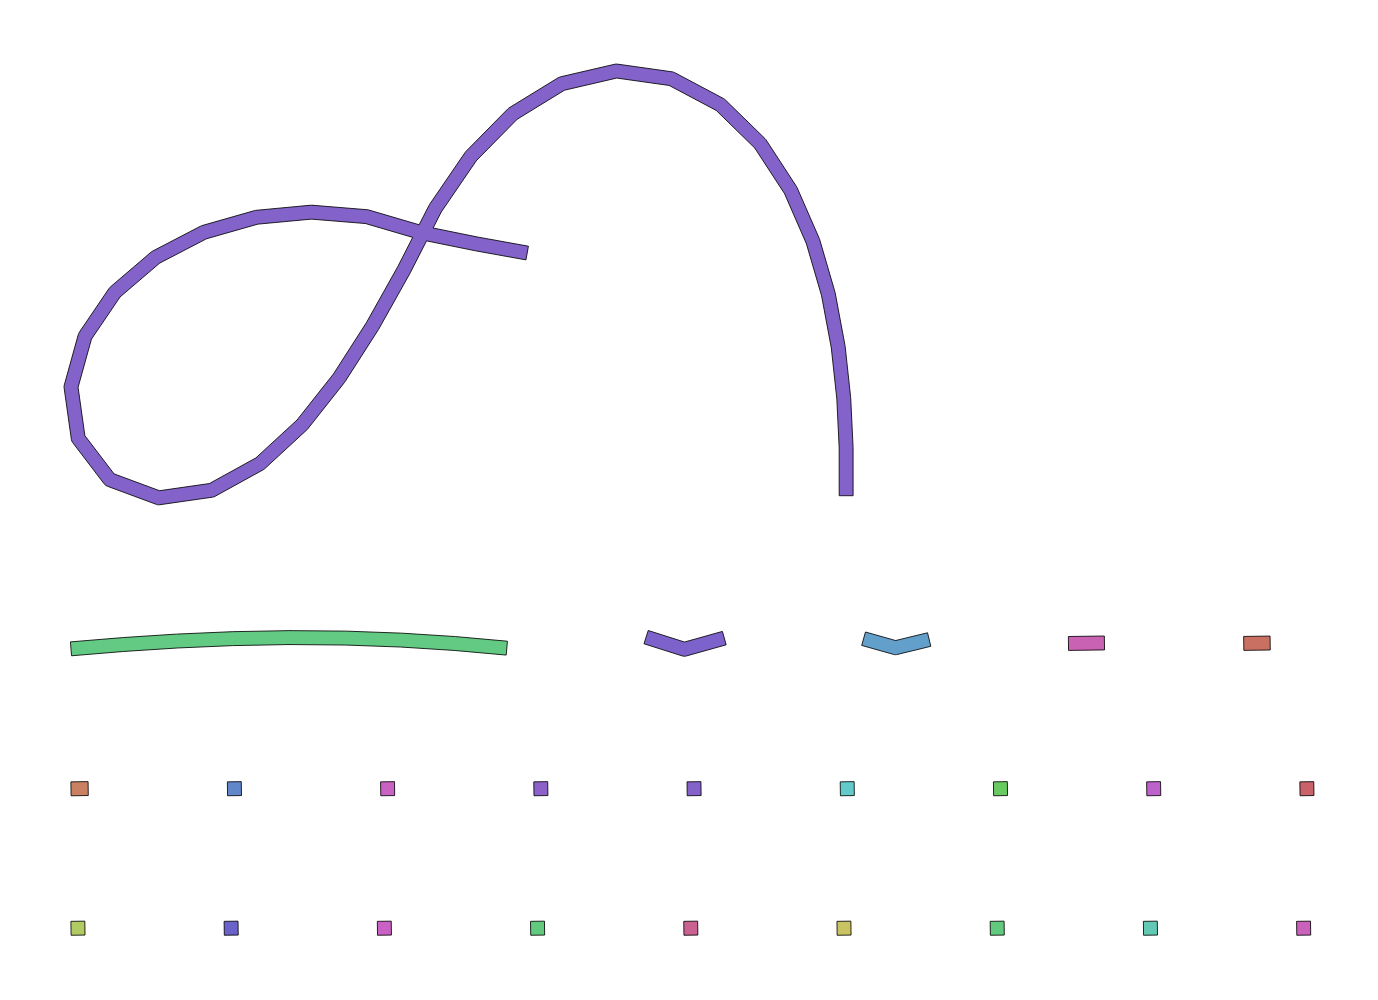
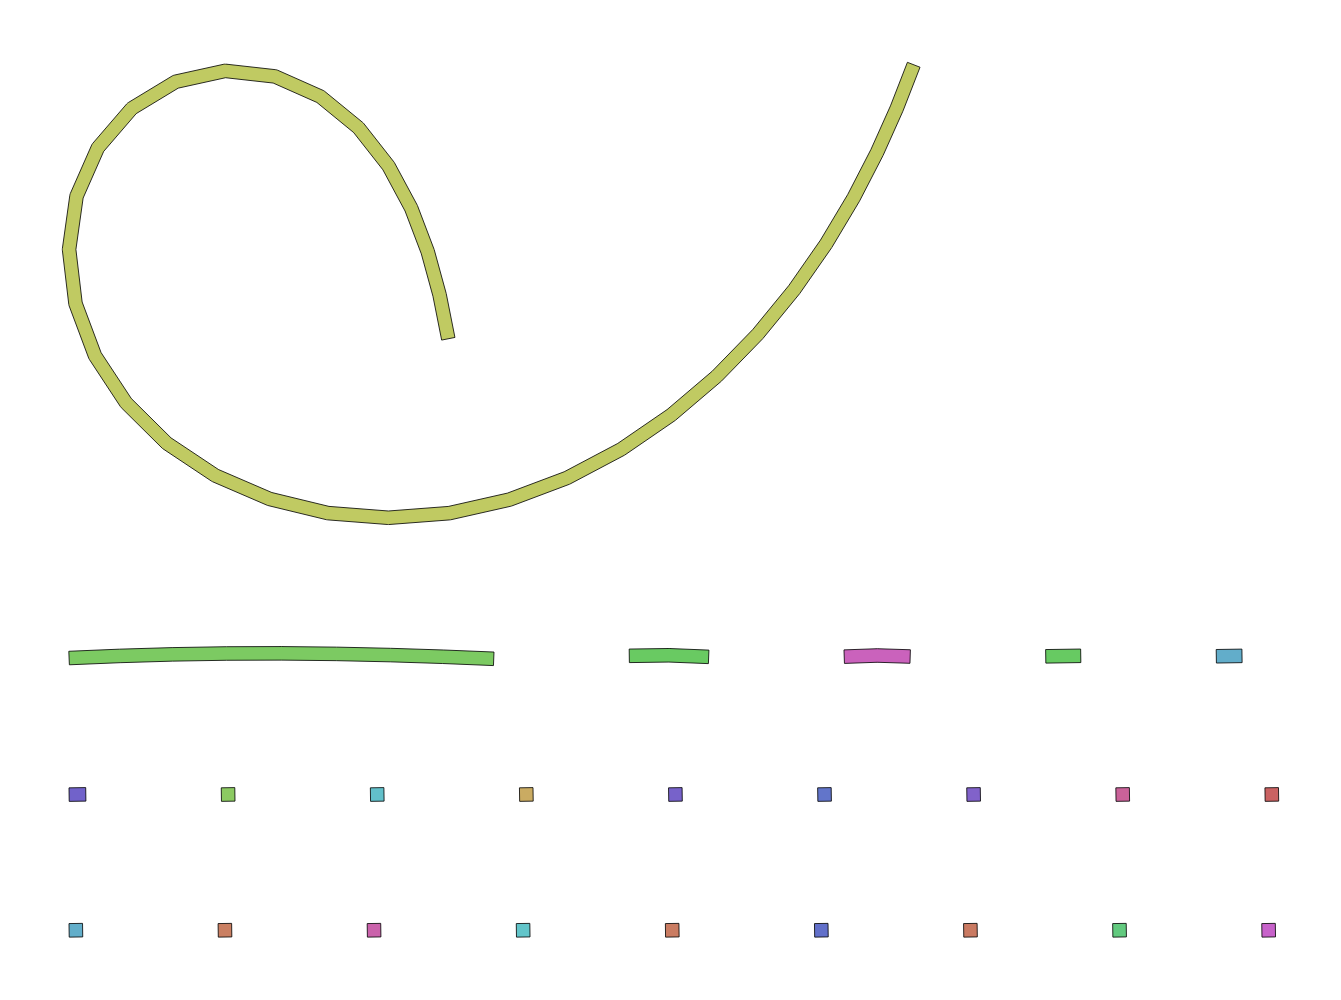
Corrijo guiones, actualizo títulos y recompilo HTML

diff --git a/results/2026-04-16/guio.html b/results/2026-04-16/guio.html
@@ -8,7 +8,7 @@
 
 <meta name="author" content="Laura Monleón">
 
-<title>Practica10</title>
+<title>Ensamblaje de genomas</title>
 <style>
 code{white-space: pre-wrap;}
 span.smallcaps{font-variant: small-caps;}
@@ -83,7 +83,7 @@ pre > code.sourceCode > span > a:first-child::before { text-decoration: underlin
 
 <header id="title-block-header" class="quarto-title-block default">
 <div class="quarto-title">
-<h1 class="title">Practica10</h1>
+<h1 class="title">Ensamblaje de genomas</h1>
 </div>
 
 
